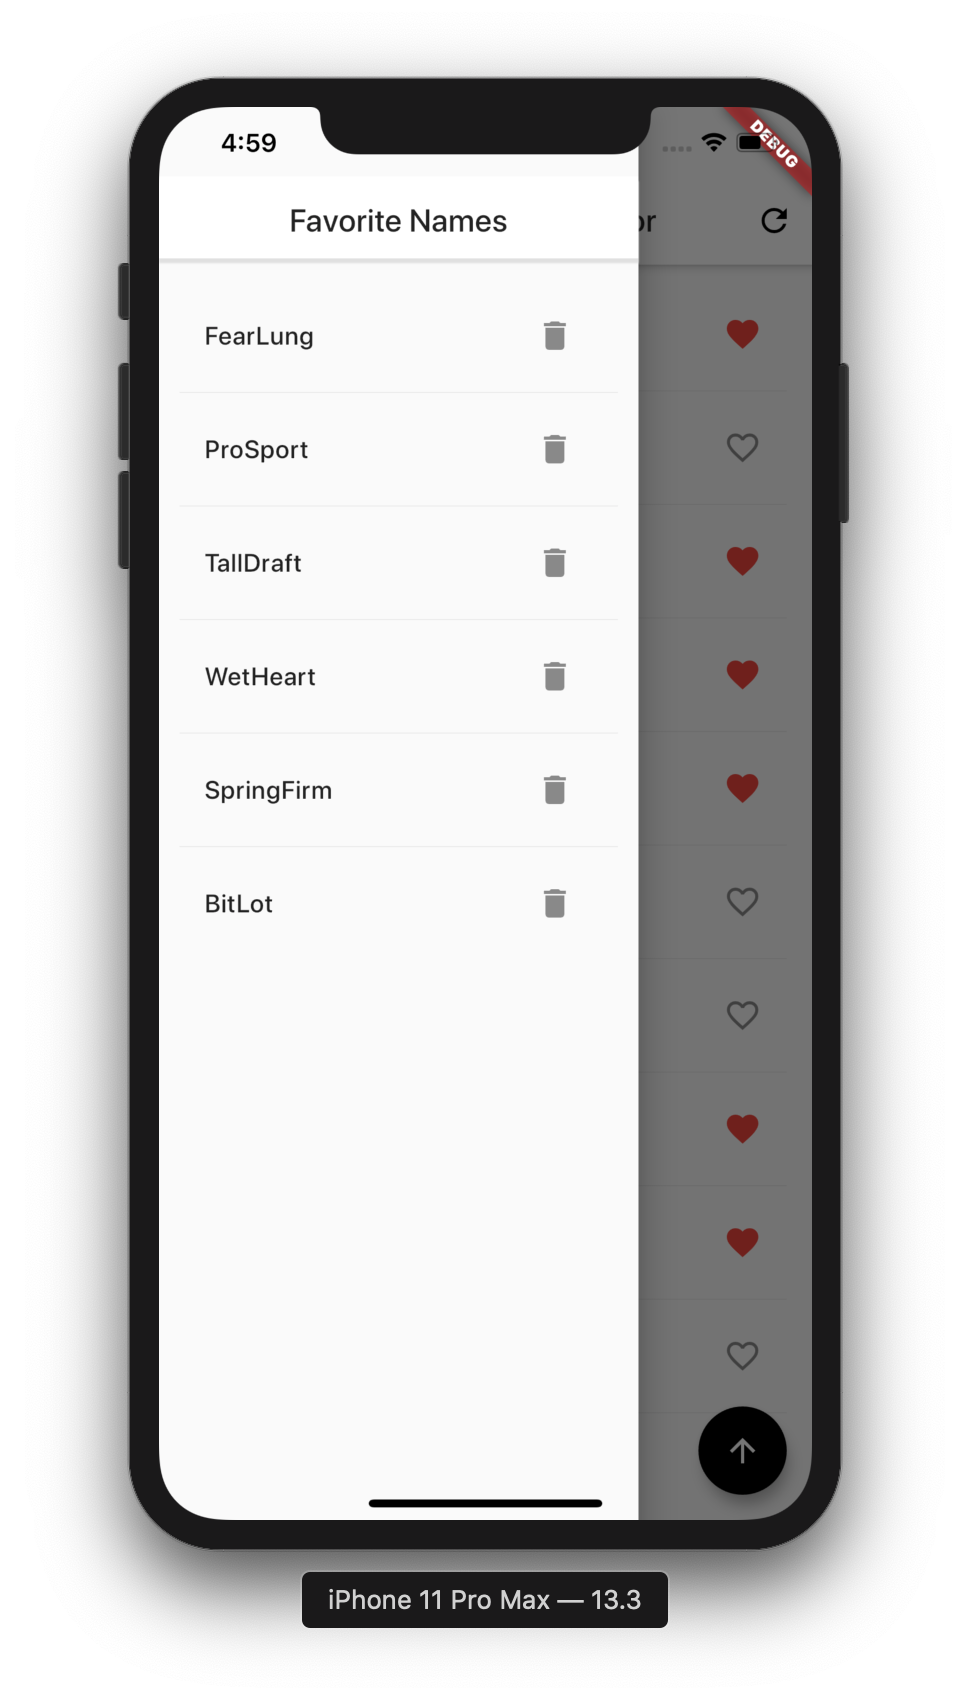
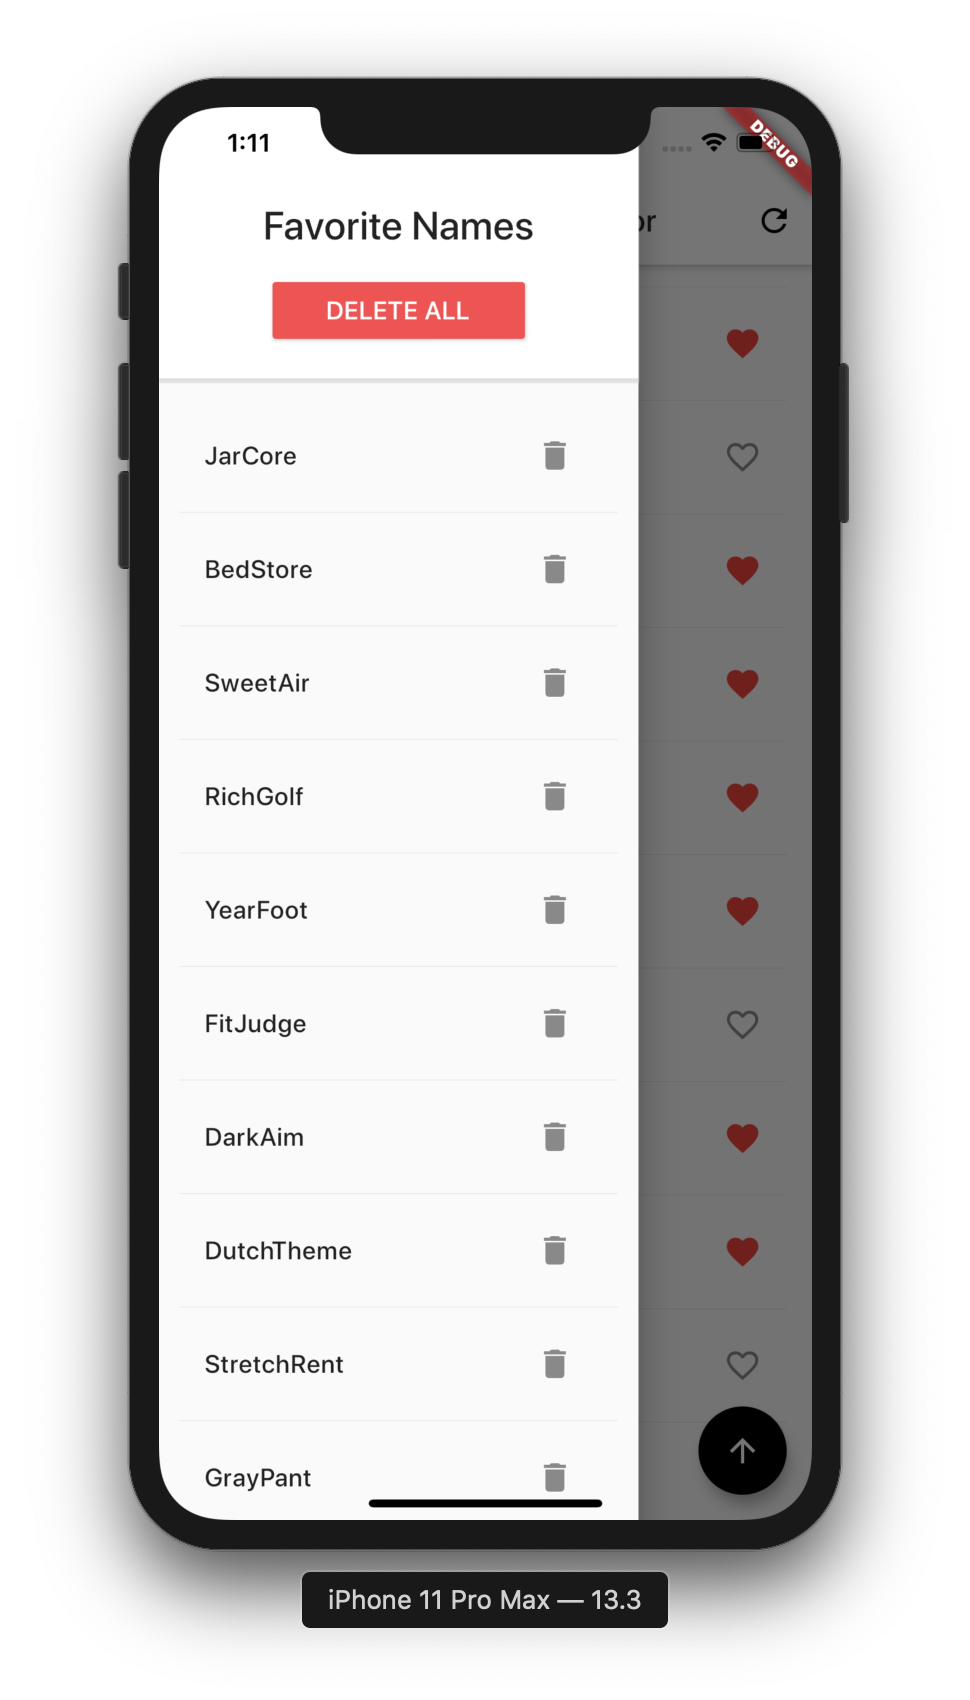
added delete all button, updated screenshot

diff --git a/lib/main.dart b/lib/main.dart
@@ -21,7 +21,7 @@ class MyApp extends StatelessWidget {
 }
 
 class RandomWordsState extends State<RandomWords> {
-  final Set<WordPair> _saved = Set<WordPair>();
+  Set<WordPair> _saved = Set<WordPair>();
   final List<WordPair> _suggestions = <WordPair>[];
   final TextStyle _biggerFont = const TextStyle(fontSize: 18.0);
   final ScrollController _scrollController = new ScrollController();
@@ -45,27 +45,76 @@ class RandomWordsState extends State<RandomWords> {
       ),
       body: _buildSuggestions(_scrollController),
       drawer: Drawer(
-        child: ListView(
+          child: Column(
         children: <Widget>[
-          Container(
-						height: 60.0,
-						child: DrawerHeader(
-            child: Text(
-							"Favorite Names",
-							style: TextStyle(fontSize: 20),
-							textAlign: TextAlign.center,
-						),
-            decoration: new BoxDecoration(
-              color: Colors.white,
-              boxShadow: [
-                new BoxShadow(
-                  color: Colors.grey[300],
-                  offset: new Offset(0, 3.0),
-                )
-              ],
-            ),
-          )),
-          _buildFavorites(_scrollController),
+          FractionallySizedBox(
+              widthFactor: 1,
+              child: Container(
+                  height: 180.0,
+                  child: DrawerHeader(
+                    child: Column(
+                      children: <Widget>[
+                        Text(
+                          "Favorite Names",
+                          style: TextStyle(fontSize: 25.0),
+                          textAlign: TextAlign.center,
+                        ),
+                        Container(
+                            margin: EdgeInsets.only(top: 15.0),
+                            child: ButtonTheme(
+                              minWidth: 160.0,
+                              child: RaisedButton(
+                                onPressed: () {
+                                  setState(() {
+                                    _saved = Set<WordPair>();
+                                  });
+                                },
+                                color: Colors.red[400],
+                                child: Text(
+                                  "DELETE ALL",
+                                  style: TextStyle(
+                                    color: Colors.white,
+                                    fontSize: 16.0,
+                                  ),
+                                ),
+                              ),
+                            ))
+                      ],
+                    ),
+                    decoration: new BoxDecoration(
+                      color: Colors.white,
+                      boxShadow: [
+                        new BoxShadow(
+                          color: Colors.grey[300],
+                          offset: new Offset(0, 3.0),
+                        )
+                      ],
+                    ),
+                  ))),
+          Expanded(
+              child: ListView.separated(
+                  controller: _scrollController,
+                  shrinkWrap: true,
+                  scrollDirection: Axis.vertical,
+                  padding: const EdgeInsets.all(13.0),
+                  itemCount: _saved.length,
+                  separatorBuilder: (context, index) {
+                    return Divider();
+                  },
+                  itemBuilder: (BuildContext context, int index) {
+                    return (ListTile(
+                      title: Text(_saved.elementAt(index).asPascalCase,
+                          style: TextStyle(fontSize: 16.0)),
+                      trailing: IconButton(
+                        icon: Icon(Icons.delete),
+                        onPressed: () {
+                          setState(() {
+                            _saved.remove(_saved.elementAt(index));
+                          });
+                        },
+                      ),
+                    ));
+                  }))
         ],
       )),
       floatingActionButton: FloatingActionButton(
@@ -82,33 +131,9 @@ class RandomWordsState extends State<RandomWords> {
     );
   }
 
-  Widget _buildFavorites(controller) {
-    return ListView.separated(
-				controller: controller,
-        shrinkWrap: true,
-        padding: const EdgeInsets.all(13.0),
-        itemCount: _saved.length,
-				separatorBuilder: (context, index) {
-					return Divider();
-				},
-        itemBuilder: (BuildContext context, int index) {
-          return (
-						ListTile(
-            title: Text(
-							_saved.elementAt(index).asPascalCase,
-							style: TextStyle(fontSize: 16.0)
-						),
-            trailing: IconButton(
-              icon: Icon(Icons.delete),
-              onPressed: () {
-                setState(() {
-                  _saved.remove(_saved.elementAt(index));
-                });
-              },
-            ),
-          ));
-        });
-  }
+  // Widget _buildFavorites(controller) {
+  //   return
+  // }
 
   Widget _buildSuggestions(controller) {
     return ListView.builder(
